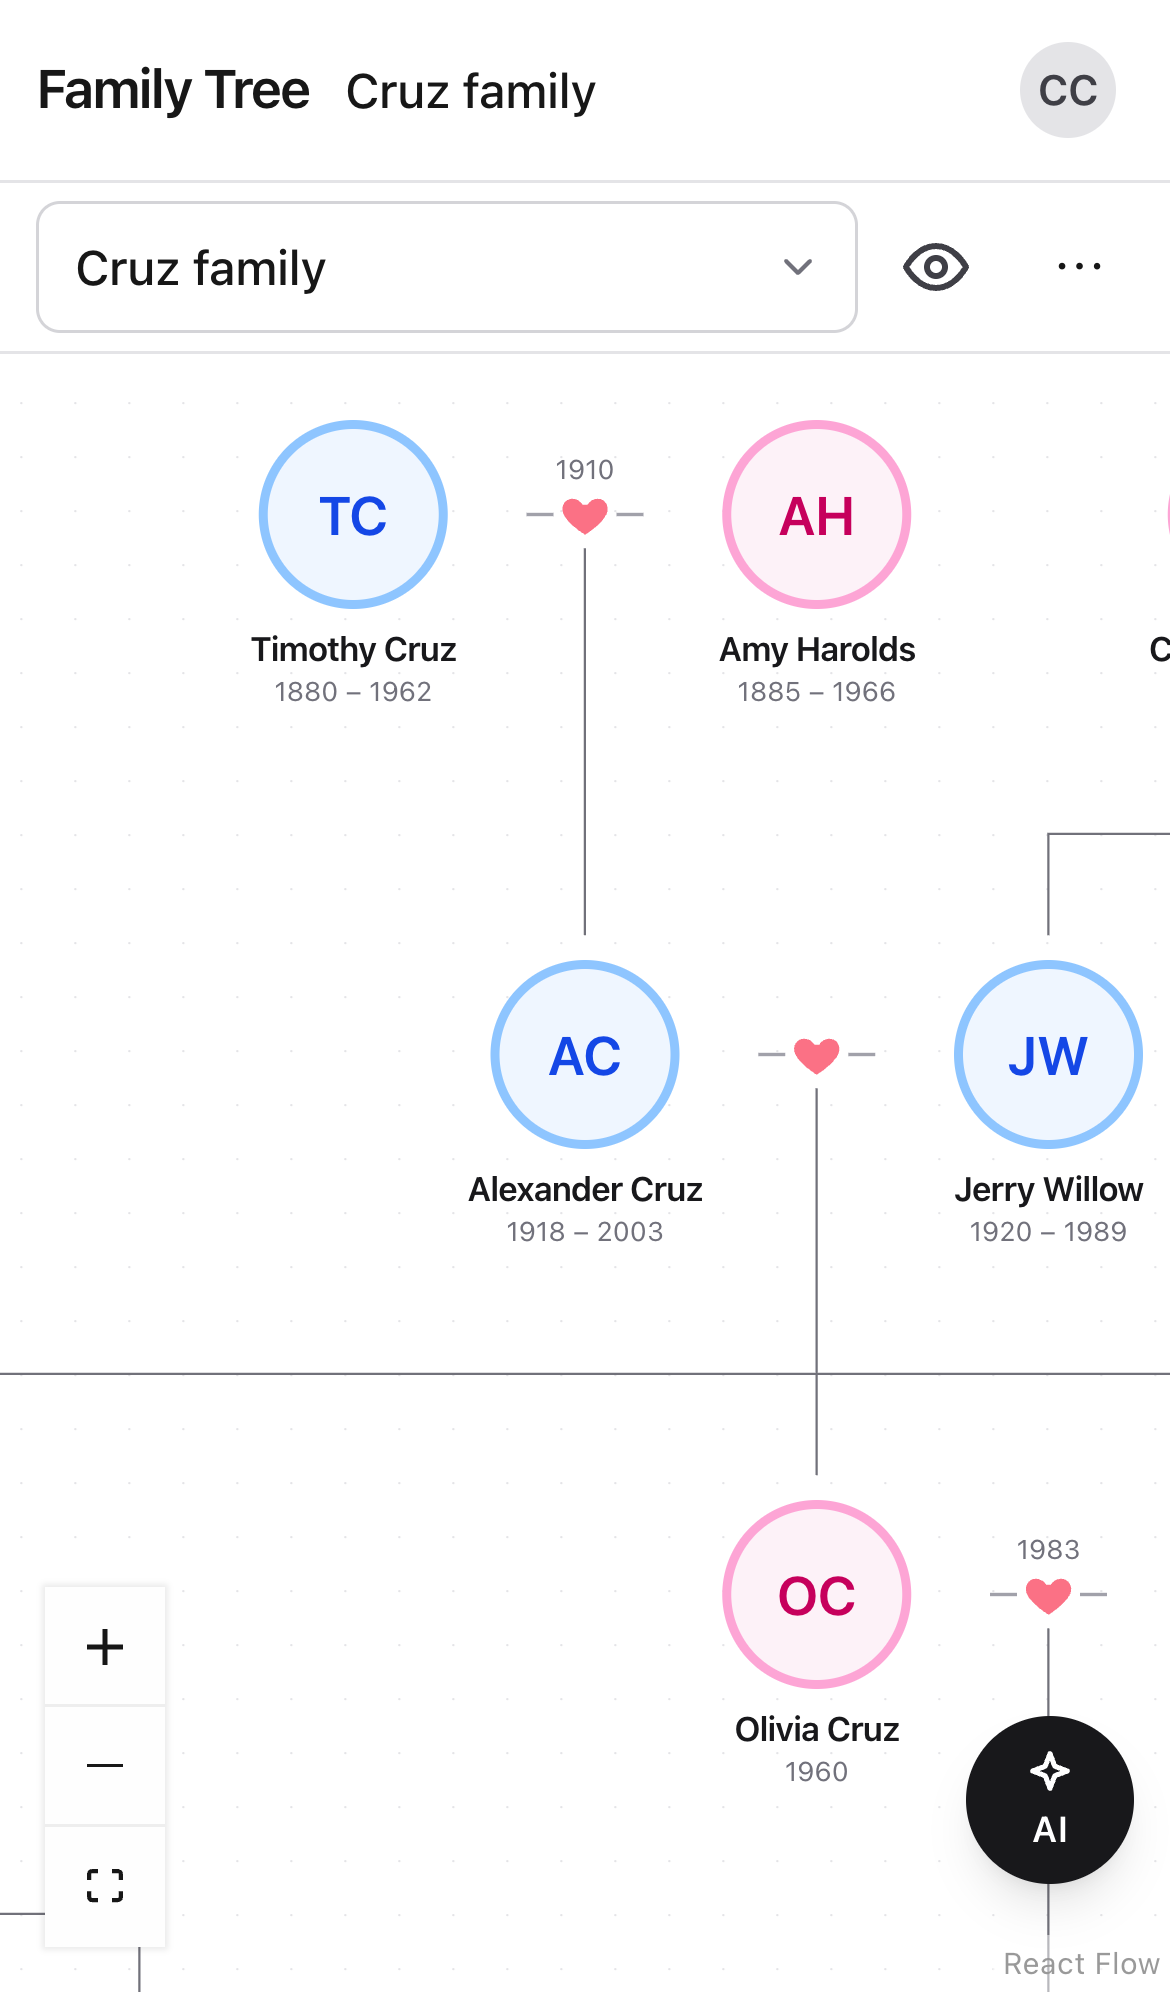
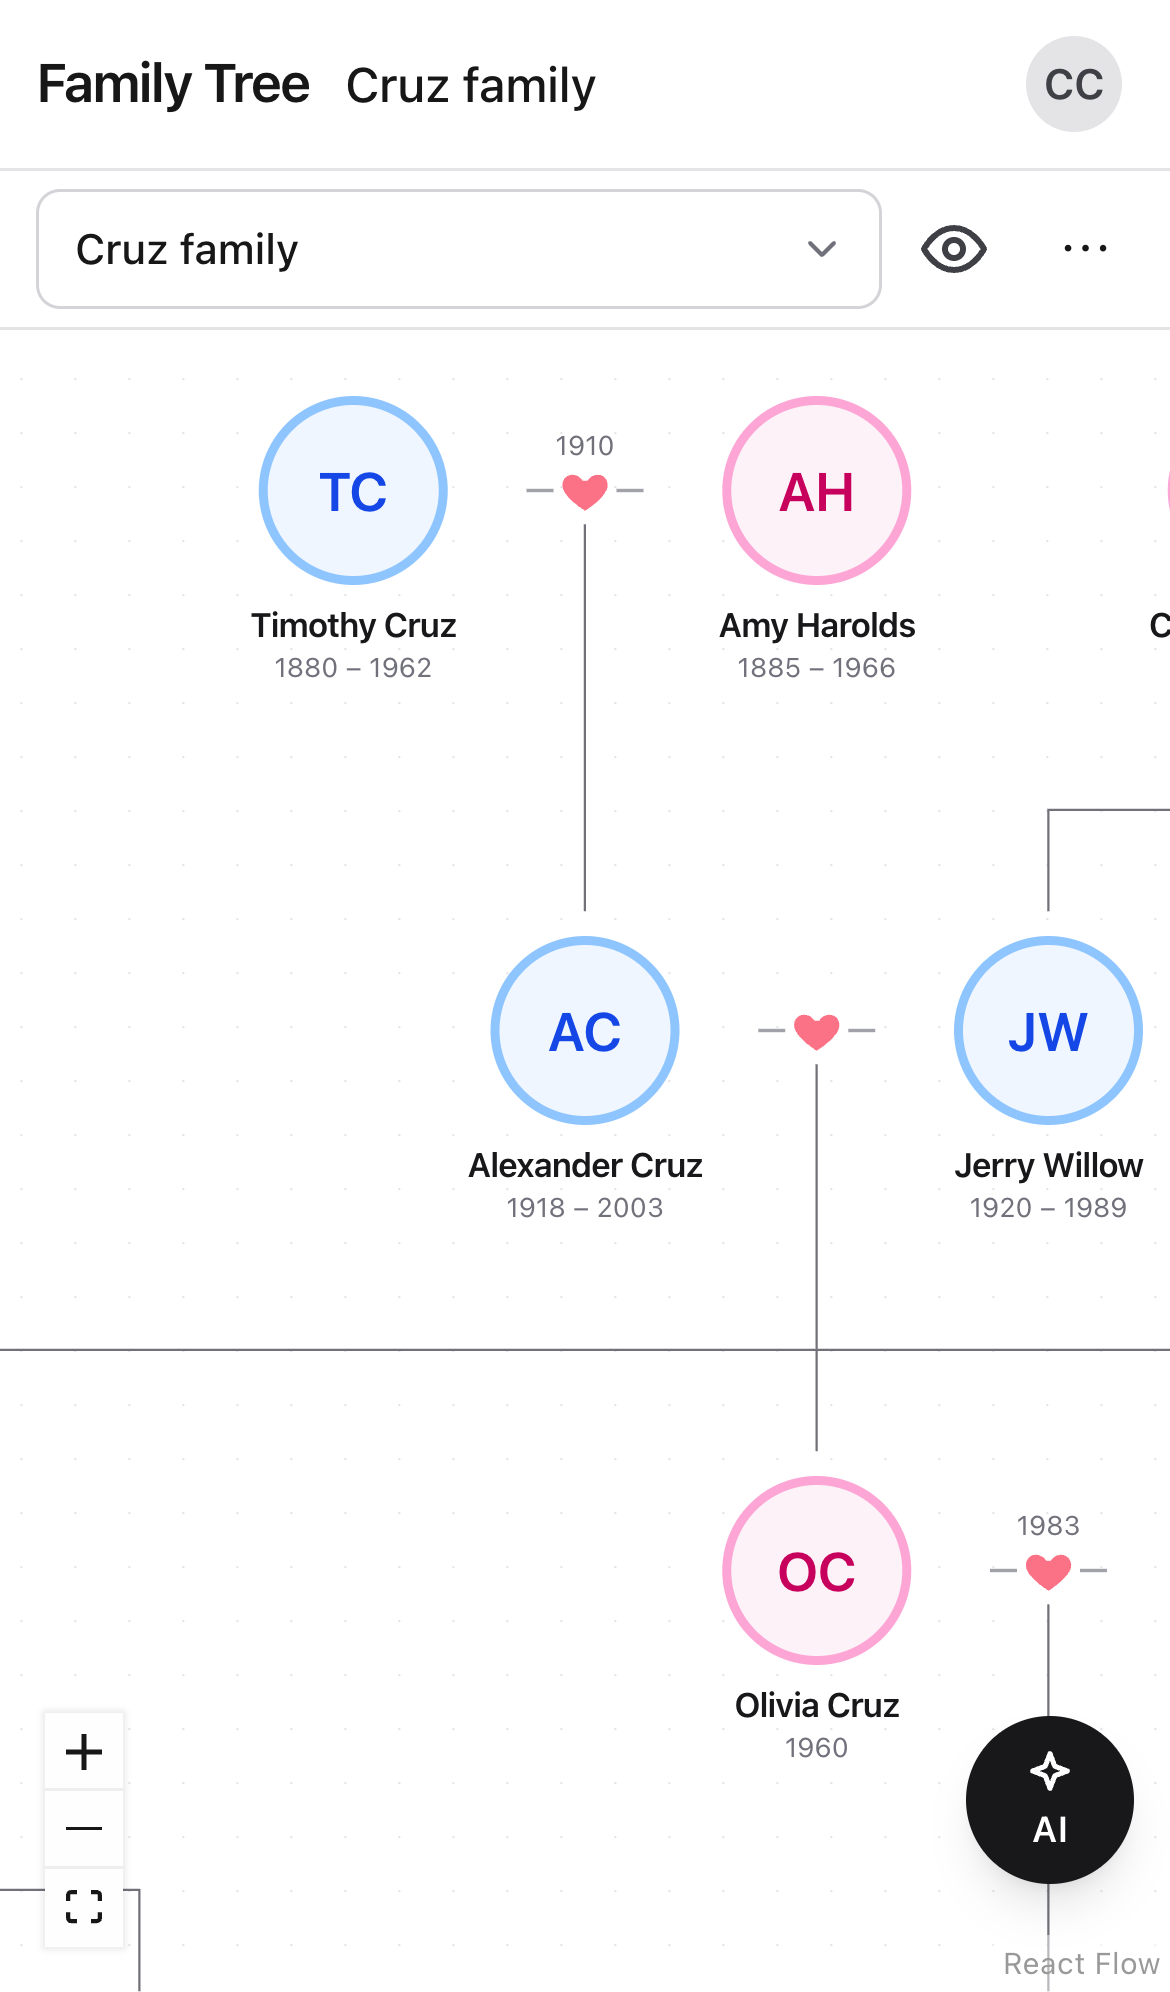
README pictures: Ask AI at the top, Upcoming on phones and the dashboard
- The top picture is the tree with Ask AI open on its proposal card
  (a copy of chat.png), instead of the plain tree; day-tree.png leaves
  docs/screenshots
- Three phone pictures across: the tree, a person's panel (with their
  age) and ★ Everyone's Upcoming
- The dashboard's Upcoming in the ★ Everyone section; the e2e test now
  clips that screenshot to the page's top part
- The Upcoming e2e test gives Olivia Cruz a 60th birthday in 20 days,
  so the dashboard and the ★ Everyone grid (laid out again) show a
  Shashtipurti badge (e2e: 80 passed)
- Docs: BUILD_PLAN.md section, decisions and Progress row; CLAUDE.md's
  list of README copies

diff --git a/e2e/everyone.spec.ts b/e2e/everyone.spec.ts
@@ -462,8 +462,20 @@ test("Upcoming: birthdays and anniversaries nearest first; a row opens the perso
   await page.clock.setFixedTime(new Date(2026, 9, 21, 10)); // Wednesday 21 October 2026, on the device
   const { owner, groupId } = await sampleOwner(page, signIn, sampleGroup);
   const tree = await loadGroupTree(database.db, groupId);
-  const born = (name: string, birthMonth: number, birthDay: number) => ({ op: "updatePerson", personId: tree.persons.find((p) => p.name === name)!.id, set: { birthMonth, birthDay } });
-  await applyOperations(database, groupId, [born("Steve Cruz", 10, 21), born("Amelia Young", 10, 22), born("Arham Chopra", 11, 3), born("Jake Cruz", 10, 25)], owner.id);
+  const id = (name: string) => tree.persons.find((p) => p.name === name)!.id;
+  const born = (name: string, birthMonth: number, birthDay: number) => ({ op: "updatePerson", personId: id(name), set: { birthMonth, birthDay } });
+  await applyOperations(
+    database,
+    groupId,
+    [
+      born("Steve Cruz", 10, 21),
+      born("Amelia Young", 10, 22),
+      born("Arham Chopra", 11, 3),
+      born("Jake Cruz", 10, 25),
+      { op: "updatePerson", personId: id("Olivia Cruz"), set: { birthYear: 1966, birthMonth: 11, birthDay: 10 } }, // her 60th: a milestone
+    ],
+    owner.id,
+  );
 
   await page.goto(`/g/${groupId}/s/everyone?view=upcoming`);
   const rows = page.getByRole("tabpanel").getByTestId("upcoming-row");
@@ -471,10 +483,11 @@ test("Upcoming: birthdays and anniversaries nearest first; a row opens the perso
     "Wed 21 OctTodaySCSteve CruzTurns 41",
     "Thu 22 OctTomorrowAYAmelia YoungTurns 25",
     "Tue 3 NovIn 13 daysACArham ChopraTurns 43",
+    "Tue 10 NovIn 20 daysOCOlivia CruzTurns 60Shashtipurti",
     "Wed 8 SepSCACSteve Cruz & Arham Chopra19th anniversary", // Jake Cruz has died: no birthday, no anniversary with Taylor
   ]);
   await expect(page.getByRole("tabpanel").getByRole("heading")).toHaveText(["October 2026", "November 2026", "September 2027"]);
-  await expect(page.getByText("22 living people have no full birth date, so their birthdays aren't shown.")).toBeVisible();
+  await expect(page.getByText("21 living people have no full birth date, so their birthdays aren't shown.")).toBeVisible();
   await page.screenshot({ path: "test-results/screenshots/everyone-upcoming.png" });
 
   // A birthday opens the person, with their age; an anniversary the couple.
@@ -497,8 +510,12 @@ test("Upcoming: birthdays and anniversaries nearest first; a row opens the perso
     "Wed 21 OctTodaySteve Cruz turns 41Cruz family",
     "Thu 22 OctTomorrowAmelia Young turns 25Cruz family",
     "Tue 3 NovIn 13 daysArham Chopra turns 43Cruz family",
+    "Tue 10 NovIn 20 daysOlivia Cruz turns 60Cruz familyShashtipurti",
   ]);
-  await page.screenshot({ path: "test-results/screenshots/dashboard-upcoming.png", fullPage: true });
+  // The page's top part: the welcome and Upcoming (a README picture).
+  const main = await box(page.getByRole("main"));
+  const section = await box(page.getByRole("region", { name: "Upcoming", exact: true }));
+  await page.screenshot({ path: "test-results/screenshots/dashboard-upcoming.png", clip: { x: main.x, y: main.y, width: main.width, height: section.y + section.height - main.y + 32 } });
   await soon.nth(1).click();
   await expect(page).toHaveURL(/\/s\/everyone\?view=upcoming&person=[0-9a-f]{24}$/);
   await expect(personPanel(page).getByRole("heading", { name: "Amelia Young" })).toBeVisible();

diff --git a/docs/BUILD_PLAN.md b/docs/BUILD_PLAN.md
@@ -40,6 +40,7 @@ The app is built in small steps. Each step ends with its tests passing, a check 
 | – | Marriage dates (owner request) | Done 2026-10-21 (unit tests: 433 passed; database: 42 passed; e2e: 78 passed). See its section at the end |
 | – | Birthdays and anniversaries (owner request) | Done 2026-10-21 (unit tests: 447 passed; e2e: 80 passed). See its section at the end |
 | – | "Topology is closed" on production (found by the owner) | Done 2026-10-21 (unit tests: 450 passed; e2e: 80 passed). See its section at the end |
+| – | The README's pictures (owner request) | Done 2026-10-21 (e2e: 80 passed). See its section at the end |
 
 ## How we work
 
@@ -1373,3 +1374,22 @@ The app is built in small steps. Each step ends with its tests passing, a check 
   - The first failed connection isn't in the logs given. If the page still fails now and then, Vercel's logs just before it should say why (for example a server selection timeout); the page would then recover on the next request instead of staying broken.
   - Vercel suggests `attachDatabasePool` (from `@vercel/functions`) for database clients on Fluid compute, which closes idle connections before an instance is suspended. Not added here: it's a new dependency, and not the cause of this error.
   - The Speed Insights pull request merged into `main` needed `npm install` locally (the lockfile was already right).
+
+## After the final check: the README's pictures (owner request)
+- **Why:** the README shows only a plain desktop tree, two phone screens, the ★ Everyone grid and the architecture diagram. The AI assistant (the app's name) and the dashboard's Upcoming have no picture, although the e2e tests already take good ones.
+- **Build:**
+  - **The top picture:** the tree with Ask AI open on its proposal card ("Priya Sharma married Ravi" → "Which one…?" → Proposed changes, Confirm), a copy of `chat.png`. It shows the two main ideas at once: the tree laid out by itself, and an assistant that proposes and waits for Confirm. The plain tree (`day-tree.png`) leaves the README.
+  - **The dashboard's Upcoming** in the ★ Everyone section, beside the line about it: a copy of `dashboard-upcoming.png`, which the e2e test now takes of the page's top part only (the welcome and Upcoming), not the whole page.
+  - **Phones:** a third picture beside the tree and the panel, ★ Everyone's Upcoming (`phone-everyone-upcoming.png`), three across.
+  - **A milestone in the pictures:** the Upcoming e2e test also gives Olivia Cruz a birth date that makes her turn 60 in 20 days, so the Upcoming view and the dashboard show a Shashtipurti badge. The README's ★ Everyone grid is laid out again with that picture.
+  - **Copies, as now:** each picture is a copy in `docs/screenshots/`, made again after visible changes; CLAUDE.md's list of README copies names them all.
+- **Decisions (owner, 2026-10-21):**
+  1. The tree with Ask AI at the top (the proposal), instead of the plain tree.
+  2. Of the extra pictures offered (night mode, the import preview, an exported picture, the dashboard's Upcoming), only the dashboard's Upcoming. With one picture there's no "In pictures" table: it goes in the ★ Everyone section.
+  3. A third phone picture: ★ Everyone's Upcoming (the proposal).
+  4. Initials, as now: no photos in the screenshots (the proposal).
+- **Notes (2026-10-21):**
+  - The top picture is `chat.png` as the chat e2e test takes it (1600 × 1000): the proposal card and Confirm are on screen with the tree beside them.
+  - The dashboard picture is clipped from the top of the page's main column to just below Upcoming, so the README shows no empty page or Create a group form.
+  - Olivia Cruz's birth year is 1966 only in that e2e test's group, for the milestone; the shared sample family is unchanged.
+  - `docs/screenshots/day-tree.png` is gone: nothing shows it any more (the e2e test still takes `day-tree.png` for checking by eye).

diff --git a/.claude/CLAUDE.md b/.claude/CLAUDE.md
@@ -229,7 +229,7 @@ Scripts in `scripts/` are `.mts` (top-level await) and run with `node --import t
   - **★ Everyone:** `everyone-tree.png`, `everyone-list.png`, `night-everyone-list.png`, `everyone-network.png`, `everyone-network-chosen.png`, `night-everyone-network.png`, `everyone-wheel.png`, `night-everyone-wheel.png`, `everyone-upcoming.png`, `night-everyone-upcoming.png`, `dashboard-upcoming.png`, `phone-everyone.png`, `phone-everyone-list.png`, `phone-everyone-network.png`, `phone-everyone-wheel.png`, `phone-everyone-upcoming.png`.
   - **Phones and tablets:** `phone-tree.png`, `phone-panel.png`, `phone-menu.png`, `phone-chat.png`, `night-phone-tree.png`, `tablet-tree.png`.
   - **Exported pictures and import:** `sheet-picture.png`, `sheet-picture-no-photos.png`, `import-preview.png`.
-  - **README copies:** `docs/screenshots/day-tree.png`, `phone-tree.png` and `phone-panel.png` are copies of those screenshots: copy them again after visible changes to the sheets page. `docs/screenshots/everyone-views.png` lays out `everyone-tree.png`, `everyone-network-chosen.png`, `everyone-wheel.png`, `everyone-list.png` and `everyone-upcoming.png` in a 2×3 grid with captions, the three notes in the sixth cell: after visible changes to ★ Everyone, lay it out again the same way, with a temporary e2e spec that feeds copies of those screenshots into `page.setContent` as data URLs, at `deviceScaleFactor: 2` and a 1080 px wide page, then delete the spec.
+  - **README copies:** `docs/screenshots/chat.png` (the top picture), `phone-tree.png`, `phone-panel.png`, `phone-everyone-upcoming.png` and `dashboard-upcoming.png` are copies of those screenshots: copy them again after visible changes to the sheets page, the chat, ★ Everyone's Upcoming or the dashboard. `docs/screenshots/everyone-views.png` lays out `everyone-tree.png`, `everyone-network-chosen.png`, `everyone-wheel.png`, `everyone-list.png` and `everyone-upcoming.png` in a 2×3 grid with captions, the three notes in the sixth cell: after visible changes to ★ Everyone, lay it out again the same way, with a temporary e2e spec that feeds copies of those screenshots into `page.setContent` as data URLs, at `deviceScaleFactor: 2` and a 1080 px wide page, then delete the spec.
 - `playwright.config.ts` has three projects: `chromium` (desktop Chrome, every spec except `responsive-*`), `phone` (Chrome's iPhone 13 emulation: 390 × 844, touch) for `e2e/responsive-phone.spec.ts`, and `tablet` (iPad, 810 × 1080) for `e2e/responsive-tablet.spec.ts`. Safari's engine can't be downloaded here. Now and then one phone test runs without touch emulation (`pointer: coarse` doesn't match): its buttons measure their mouse sizes (a 28 px Close, a 40 px sheet picker) and a 44 px check fails, while the other phone tests pass. Rerun before suspecting the change. In phone tests, `tap()` only cards on the screen: Playwright can't pan React Flow, so reach others through the app (a link in a panel). Playwright counts an `sr-only` element as visible.
 - `playwright.config.ts` starts three servers: the app's production build (3100), the Cloudinary stand-in (3101) and the Messages API stand-in (3102). No e2e test reaches Cloudinary, Anthropic or Google.
 - Signed-in e2e tests use the `signIn(page, name)` fixture from `e2e/fixtures.ts` (import `test` and `expect` from there). It creates a fresh user and session in the run's database with Better Auth's `testUtils` and adds the signed cookie. The app has no test-login route, and ESLint forbids importing `testUtils` under `src/`. `playwright.config.ts` gives the web server `BETTER_AUTH_URL=http://localhost:3100`, a fresh `BETTER_AUTH_SECRET` per run (shared with the fixture through `E2E_AUTH_SECRET`), and placeholder Google credentials; tests stop at the redirect to Google.

diff --git a/README.md b/README.md
@@ -4,12 +4,14 @@ A web app where a family builds its tree together. People are added by hand or b
 
 **Live:** https://family-tree-with-ai.vercel.app · **Docs:** [features and decisions](docs/FEATURES.md) · [architecture](docs/ARCHITECTURE.md) · [build plan](docs/BUILD_PLAN.md)
 
-![A family's sheet in the app on a computer: the tree laid out automatically, with the sheet tabs, the eye button that hides photos, Export, Import… and Ask AI](docs/screenshots/day-tree.png)
+![A family's sheet on a computer: the tree laid out automatically, and Ask AI beside it. Told "Priya Sharma married Ravi", it asks which Ravi, then proposes the changes on a card that waits for Confirm](docs/screenshots/chat.png)
 
 <p>
-  <img src="docs/screenshots/phone-tree.png" alt="The same sheet on a phone: a sheet picker, the eye, the ⋯ menu, names readable, and the round Ask AI button" width="260">
+  <img src="docs/screenshots/phone-tree.png" alt="The same sheet on a phone: a sheet picker, the eye, the ⋯ menu, names readable, and the round Ask AI button" width="250">
   &nbsp;
-  <img src="docs/screenshots/phone-panel.png" alt="On a phone, a person's details open over the bottom half, with their card moved above" width="260">
+  <img src="docs/screenshots/phone-panel.png" alt="On a phone, a person's details open over the bottom half, with their card moved above and their age" width="250">
+  &nbsp;
+  <img src="docs/screenshots/phone-everyone-upcoming.png" alt="★ Everyone's Upcoming on a phone: the next wedding anniversary, with the five views' names across the top" width="250">
 </p>
 
 ## Contents
@@ -76,9 +78,12 @@ A built-in first tab on every group's sheets page that shows every person and ho
 | ▦ **Upcoming** | Everyone's next birthday ("Turns 41") and every couple's next wedding anniversary over the next 12 months, nearest first, with Shashtipurti, Silver and Golden marked | Every screen |
 
 - ★ Everyone comes first in the tab row (first in the sheet picker on phones), but a group still opens on its first pinned sheet, or its first sheet when none is pinned.
-- The dashboard lists the birthdays and anniversaries in the next 30 days across your groups, and a person's panel shows their age.
 - Tapping anyone, in any view, opens the same person panel as on a sheet (editing for Maintain and up), with shortcuts to the other views. The person you picked stays picked when you switch, and each view has its own link to share.
 - **All five views are built.** Find someone selects a person and moves to them (in the List it narrows the rows; in the Wheel it puts them in the middle). The List filters Everyone, Living, Married in and On no sheet. In the Network, choosing someone lights up their parents, partners and children. The Wheel labels everyone with their relation in Telugu relationship names written in English letters (Amma, Babai, Menamama, Bava…) or, with the "తె | En" toggle, in English. Upcoming lists the next 12 months of birthdays and anniversaries by month, for people with full dates. A person's panel has "Find in list", "Show in network" and "Relatives wheel", on any sheet too. The picture above shows them with the sample family. The agreed details are in [docs/FEATURES.md](docs/FEATURES.md#everyone-agreed-2026-10-20-all-four-views-built-tree-list-network-wheel).
+
+The dashboard lists the birthdays and anniversaries in the next 30 days across your groups, with milestones marked, and a person's panel shows their age:
+
+<img src="docs/screenshots/dashboard-upcoming.png" alt="The dashboard's Upcoming: today's and tomorrow's birthdays, then the next ones with how soon they are, the group each is in, and a Shashtipurti badge for a 60th birthday" width="600">
 
 ## Tech stack
 
